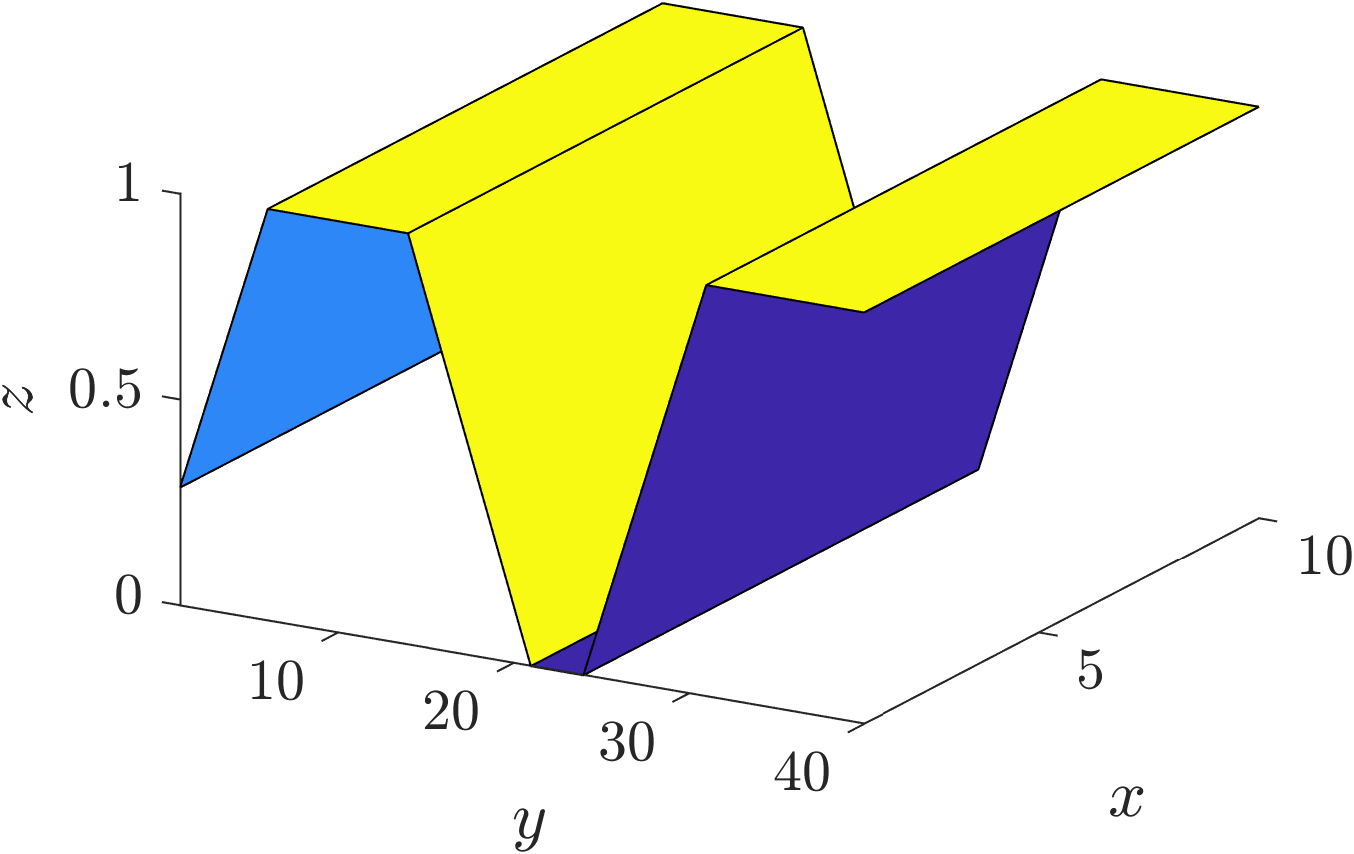
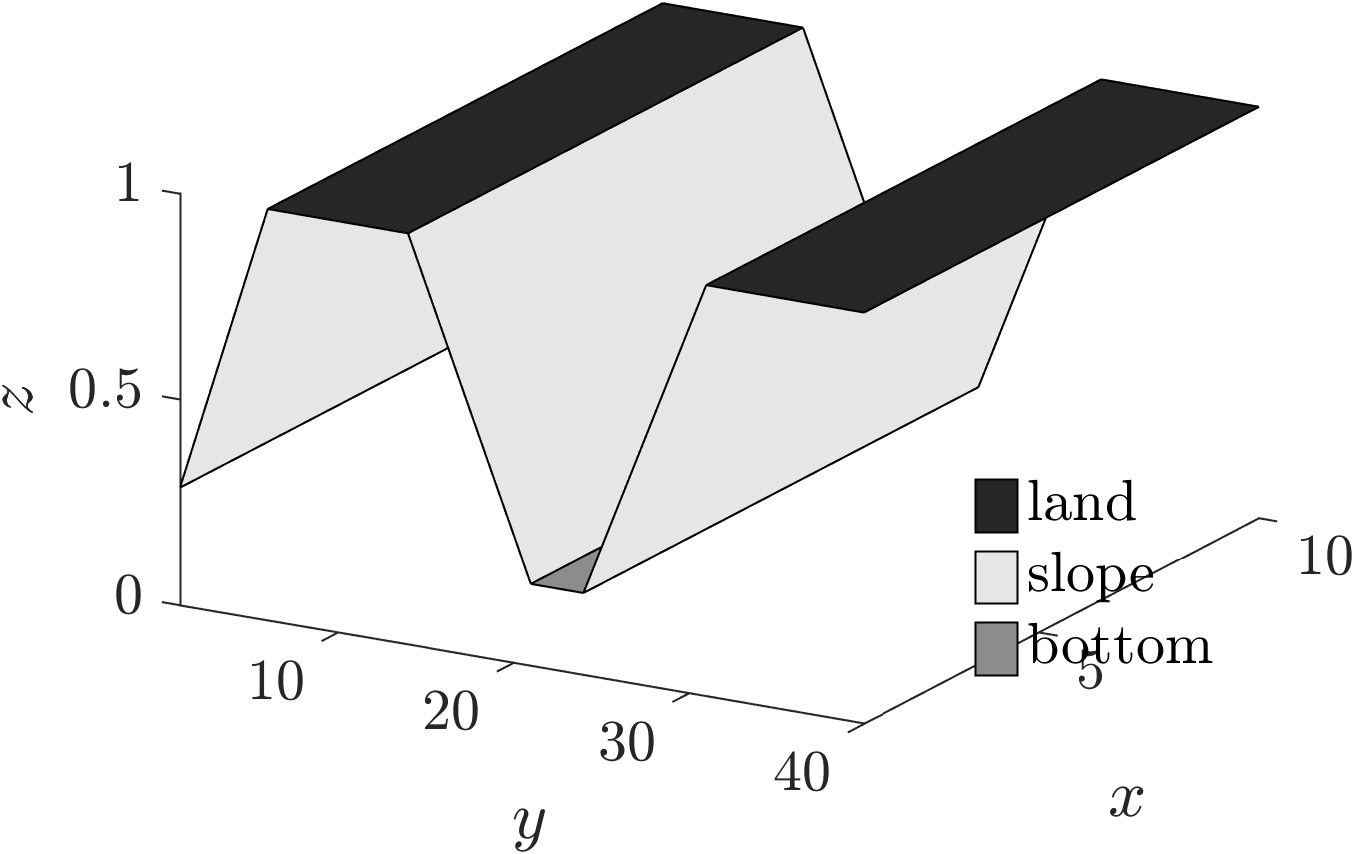
grooveShape3dの各面をland/slope/bottomで色分けしlegendを追加
前回、各面の色を実画像の平均輝度から求めたが、実際の出力では人間の目に
色差が感じにくかった。そこで実測値ではなく視覚的に区別しやすい輝度値を
land/slope/bottomの3カテゴリごとに明示指定する方式に変更し（land<bottom<slope
の順に明るくなるようユーザー指定）、どの色がどの部位かをlegendで示すようにした。
あわせて溝底のZ値を0から0.2に変更（ユーザーによる手動調整）。

diff --git a/scripts/slides/202609asj/grooveShape3d.m b/scripts/slides/202609asj/grooveShape3d.m
@@ -36,19 +36,48 @@ FONT_TICK = 14; FONT_LABEL = 16;
 %   [31,40]: 平坦面(land)
 Y_BREAKS = [1 6 14 21 24 31 40];
 SLOPE_WIDTH = 21 - 14; % 他の斜面区間と同じ傾き率をview端の途中の斜面にも適用する
-Z_BREAKS = [1 - (6-1)/SLOPE_WIDTH, 1, 1, 0, 0, 1, 1]; % land=1(高い), 溝底=0(低い)
+Z_BREAKS = [1 - (6-1)/SLOPE_WIDTH, 1, 1, 0.2, 0.2, 1, 1]; % land=1(高い), 溝底=0.2(低い)
 X_EXTENT = [1 10]; % 溝に平行な方向。模式図のため断面形状を一様に押し出す
 
-Z = repmat(Z_BREAKS, numel(X_EXTENT), 1);
+% 断面プロファイルの各区間が属するカテゴリ（Y_BREAKSの6区間に対応）
+SEGMENT_TYPES = ["slope","land","slope","bottom","slope","land"];
+% 各カテゴリの色（輝度値0-1）。実測値ではなく、視覚的に区別しやすいよう明示指定する
+CATEGORIES = ["land","slope","bottom"];
+CATEGORY_GRAY = [0.15, 0.9, 0.55]; % land(暗い) < bottom(中間) < slope(明るい)
+
+numSegments = numel(Y_BREAKS) - 1;
+segColors = zeros(numSegments,3);
+for i = 1:numSegments
+    g = CATEGORY_GRAY(CATEGORIES == SEGMENT_TYPES(i));
+    segColors(i,:) = [g g g];
+end
 
 %% 描画
 fig = createFigure([0 0 FIG_W FIG_H]);
 ax = axes(fig);
 
-surface(ax,Y_BREAKS,X_EXTENT,Z);
+hold(ax,"on");
+surfHandles = gobjects(1,numSegments);
+for i = 1:numSegments
+    y0 = Y_BREAKS(i); y1 = Y_BREAKS(i+1);
+    zSeg = [Z_BREAKS(i) Z_BREAKS(i+1); Z_BREAKS(i) Z_BREAKS(i+1)];
+    surfHandles(i) = surface(ax,[y0 y1],X_EXTENT,zSeg,"FaceColor",segColors(i,:),"EdgeColor","k");
+end
+hold(ax,"off");
 
 xlim(ax,Y_VIEW); ylim(ax,X_VIEW); zlim(ax,Z_VIEW);
 view(ax,AZ,EL);
+
+% land/slope/bottomの色対応を示すlegend（各カテゴリの最初の区間を代表に使う）
+legendHandles = gobjects(1,numel(CATEGORIES));
+for k = 1:numel(CATEGORIES)
+    idx = find(SEGMENT_TYPES == CATEGORIES(k), 1);
+    legendHandles(k) = surfHandles(idx);
+end
+lgd = legend(ax,legendHandles,CATEGORIES,Location="southeast");
+lgd.FontSize = FONT_TICK;
+lgd.ItemTokenSize = [10 10]; % 凡例のマーカー部分を詰める
+legend(ax,"boxoff");
 
 % スライド用にタイトルは出さない
 xlabel(ax,"$y$"); ylabel(ax,"$x$"); zlabel(ax,"$z$");
